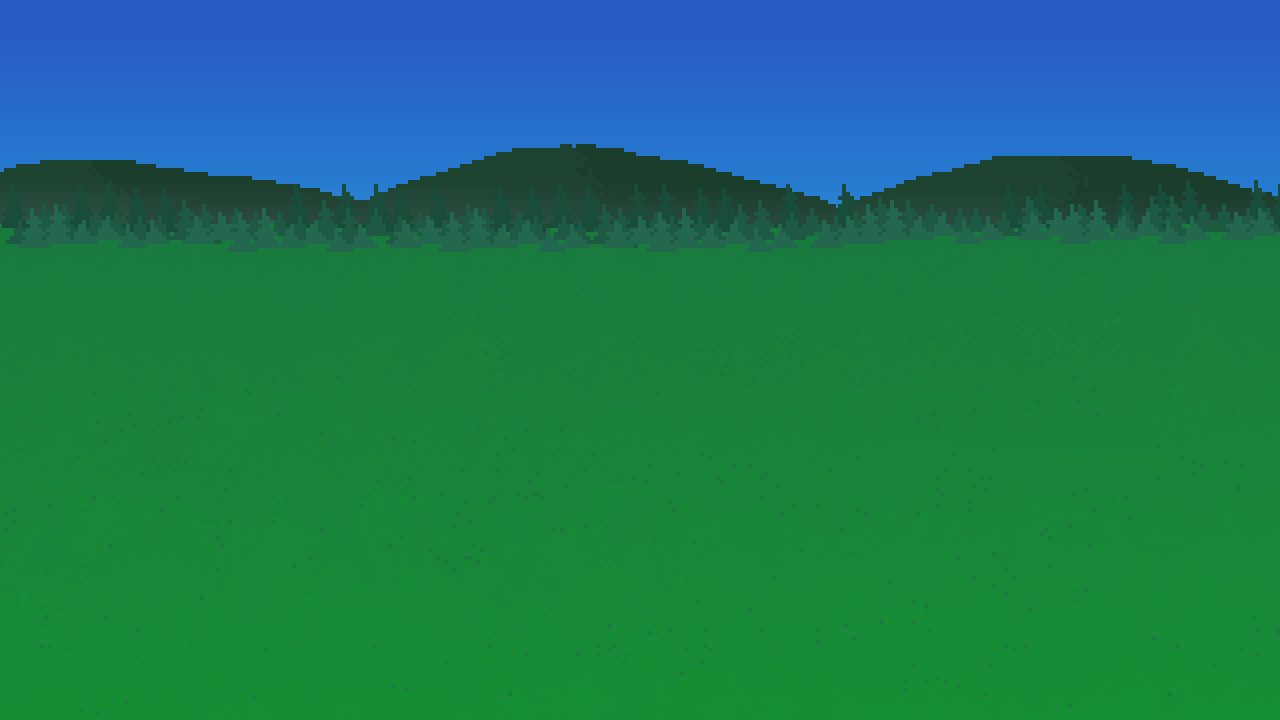
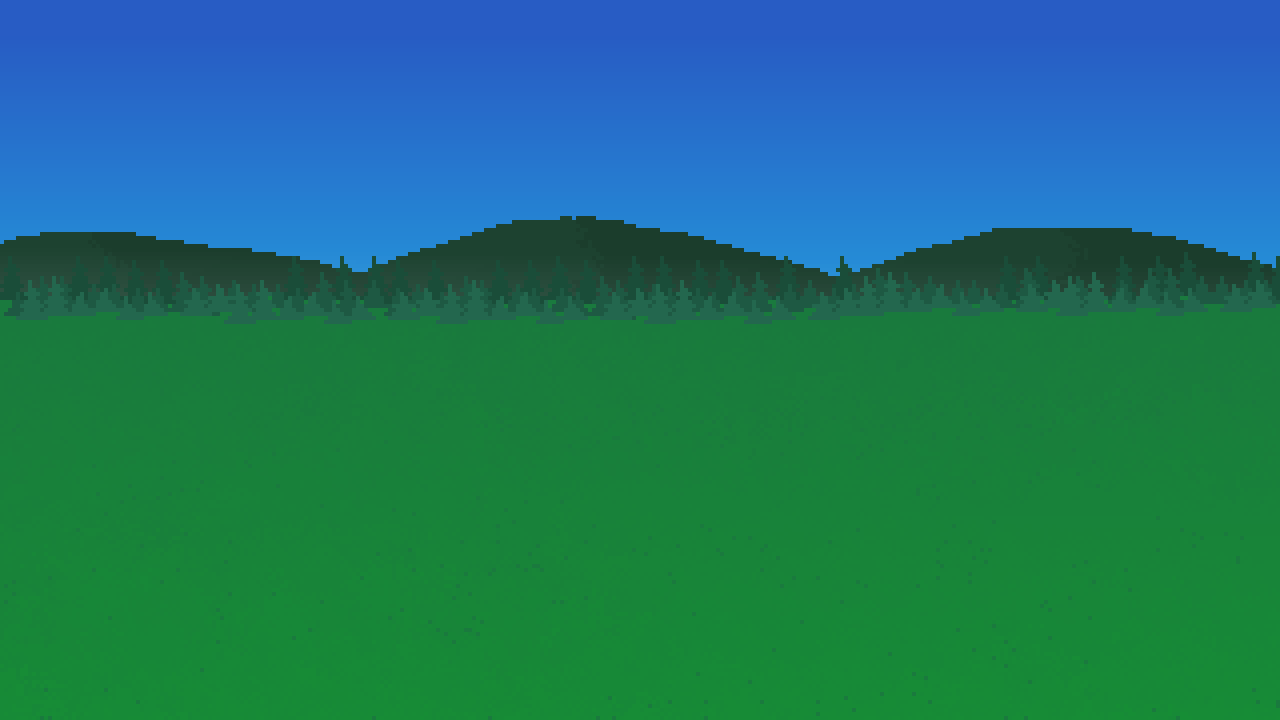
closes #24 Adds UFO. Adjusted visualizer.

Changed region(s): [[0.0, 0.1833, 1.0, 0.4583]]

diff --git a/game/visualizer/worker_sprites.py b/game/visualizer/worker_sprites.py
@@ -12,7 +12,7 @@ class WorkerLayer(cocos.layer.Layer):
 
         for n in range(random.randint(0, 19)):
             x = random.randint(0, self.size[0])
-            y = 100
+            y = 144
             x = x - (x % 4)
             y = y - (y % 4)
             temp = self.images['normal'][n]
@@ -21,7 +21,7 @@ class WorkerLayer(cocos.layer.Layer):
 
         for n in range(random.randint(0, 19)):
             x = random.randint(0, self.size[0])
-            y = 100
+            y = 144
             x = x - (x % 4)
             y = y - (y % 4)
             temp = self.images['hammer'][n]
@@ -30,7 +30,7 @@ class WorkerLayer(cocos.layer.Layer):
 
         for n in range(random.randint(0, 19)):
             x = random.randint(0, self.size[0])
-            y = 100
+            y = 144
             x = x - (x % 4)
             y = y - (y % 4)
             temp = self.images['money'][n]
@@ -39,7 +39,7 @@ class WorkerLayer(cocos.layer.Layer):
 
         for n in range(random.randint(0, 19)):
             x = random.randint(0, self.size[0])
-            y = 100
+            y = 144
             x = x - (x % 4)
             y = y - (y % 4)
             temp = self.images['pick'][n]
@@ -48,7 +48,7 @@ class WorkerLayer(cocos.layer.Layer):
 
         for n in range(random.randint(0, 19)):
             x = random.randint(0, self.size[0])
-            y = 100
+            y = 144
             x = x - (x % 4)
             y = y - (y % 4)
             temp = self.images['phone'][n]

diff --git a/game/visualizer/load.py b/game/visualizer/load.py
@@ -51,8 +51,17 @@ def replace_colors(filename, start_colors, end_colors):
 def load(temp):
     assets = temp
     plains = cocos.sprite.Sprite(find_image("game/visualizer/assets/location_assets/location_plains.png"))
+    mountains = cocos.sprite.Sprite(find_image("game/visualizer/assets/location_assets/location_mountain.png"))
+
+    # Get random location
+    num = random.randint(0,1)
+    if num == 0:
+        location = mountains
+    else:
+        location = plains
+
     assets['location'] = {
-        "0": plains
+        "0": location,
     }
 
     # City assets
@@ -106,7 +115,9 @@ def load(temp):
     dis_monster_grid = pyglet.image.ImageGrid(find_image("game/visualizer/assets/disaster_assets/monster_sheet.png"), 1, 5)
     dis_monster = cocos.sprite.Sprite(pyglet.image.Animation.from_image_sequence(dis_monster_grid[0::], 0.1))
 
-    dis_ufo = cocos.sprite.Sprite(find_image("game/visualizer/assets/disaster_assets/ufo.png"))
+    dis_ufo_grid = pyglet.image.ImageGrid(find_image("game/visualizer/assets/disaster_assets/ufo_sheet.png"), 1, 10)
+    dis_ufo = cocos.sprite.Sprite(pyglet.image.Animation.from_image_sequence(dis_ufo_grid[0::], 0.05))
+
     assets['disaster'] = {
         "fire": dis_fire,
         "tornado": dis_tornado,

diff --git a/game/visualizer/disaster_layer.py b/game/visualizer/disaster_layer.py
@@ -155,9 +155,9 @@ class UFOLayer(cocos.layer.Layer):
         # If the rate is 0, that means the ufo happened, so draw to screen
         if rates == 0:
             self.ufo = self.images['ufo']
-            self.ufo_x = 0
-            self.ufo_y = int(self.display[1] / 2)
+            self.ufo_x = -100
+            self.ufo_y = 400
 
             self.ufo.position = (self.ufo_x, self.ufo_y)
-            self.ufo.do(MoveBy((self.display[0], 0), 2))
+            self.ufo.do(MoveBy((self.display[0] + 100, 0), 3))
             self.add(self.ufo)

diff --git a/game/visualizer/location_sprites.py b/game/visualizer/location_sprites.py
@@ -1,4 +1,5 @@
 import cocos
+import random
 
 
 # Display the background picture depending on the logs
@@ -11,5 +12,5 @@ class LocationLayer(cocos.layer.Layer):
 
         # Find correlating sprite in sprite dictionary
         location = self.images["0"]
-        location.position = self.display[0]/2, self.display[1]/2
+        location.position = self.display[0]/2, 400
         self.add(location)

diff --git a/game/visualizer/__init__.py b/game/visualizer/__init__.py
@@ -148,7 +148,7 @@ def create_scene(info, parser):
     scene.add(blizzard_layer, 20)
     scene.add(earthquake_layer, 20)
     scene.add(monster_layer, 16)
-    scene.add(ufo_layer, 20)
+    scene.add(ufo_layer, 16)
 
     scene.add(health_layer, 100)
     scene.add(forecast_layer, 100)
